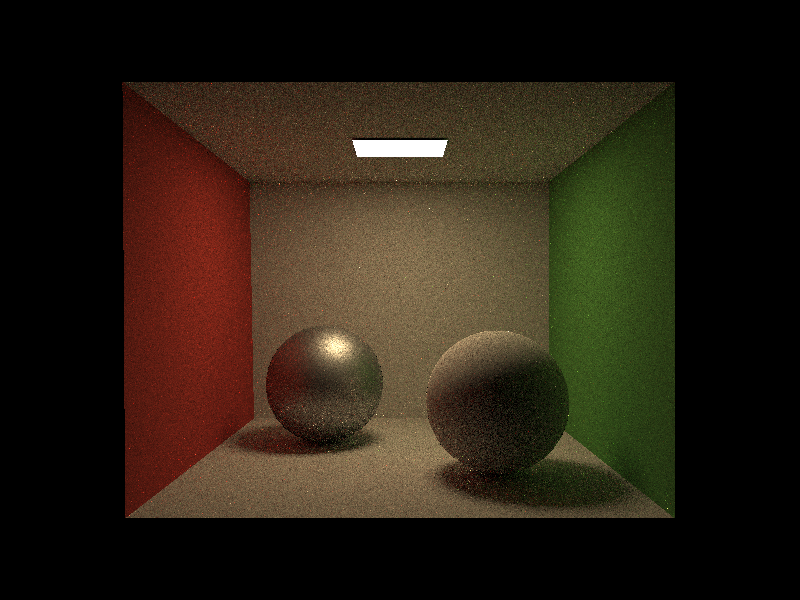
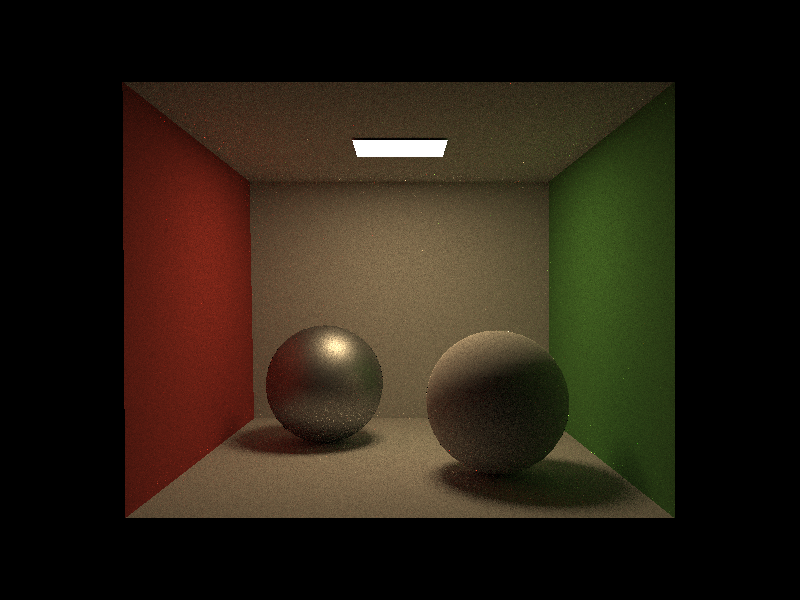
Optimizations.

diff --git a/src/pathtracer.cpp b/src/pathtracer.cpp
@@ -144,19 +144,19 @@ e8::unidirect_pathtracer::sample_indirect_illum(e8util::rng& rng,
                                                 unsigned multi_light_samps,
                                                 unsigned multi_indirect_samps) const
 {
-        // direct.
-        e8util::vec3 const& direct = sample_direct_illum(rng, o, info, scene, multi_light_samps);
-
         static const int mutate_depth = 3;
         float p_survive = 0.5f;
         if (depth >= mutate_depth) {
                 if (rng.draw() >= p_survive)
-                        return 0.0;
+                        return 0.0f;
         } else
                 p_survive = 1;
 
         if (depth >= 1)
                 multi_indirect_samps = 1;
+
+        // direct.
+        e8util::vec3 const& direct = sample_direct_illum(rng, o, info, scene, multi_light_samps);
 
         // indirect.
         float mat_pdf;
@@ -204,42 +204,6 @@ e8::bidirect_pathtracer::bidirect_pathtracer()
 
 e8::bidirect_pathtracer::~bidirect_pathtracer()
 {
-}
-
-e8util::vec3
-e8::bidirect_pathtracer::sample_light_illum(e8util::rng& rng,
-                                            e8util::vec3 const& rad,
-                                            e8util::vec3 const& i,
-                                            e8::intersect_info const& poi,
-                                            if_scene const* scene,
-                                            unsigned depth,
-                                            e8::intersect_info& terminate,
-                                            e8util::vec3& t) const
-{
-        static const unsigned mutate_depth = 0;
-        float p_survive = 0.5f;
-        if (depth >= mutate_depth) {
-                if (rng.draw() >= p_survive) {
-                        // stop.
-                        terminate = poi;
-                        t = i;
-                        return rad/(1 - p_survive);
-                }
-        } else
-                p_survive = 1;
-
-        float mat_pdf;
-        e8util::vec3 const& o = poi.mat->sample(rng, poi.normal, i, mat_pdf);
-        e8util::ray l(poi.vertex, o);
-        e8::intersect_info const& linfo = scene->intersect(l);
-        if (linfo.valid) {
-                e8util::vec3 const& brdf = poi.mat->eval(poi.normal, o, i);
-                float cos_w = poi.normal.inner(i);
-                e8util::vec3 const& r = rad*brdf*cos_w/mat_pdf/p_survive;
-                return sample_light_illum(rng, r, -o, linfo, scene, depth + 1, terminate, t);
-        } else {
-                return 0.0f;
-        }
 }
 
 e8util::vec3
@@ -300,16 +264,15 @@ e8::bidirect_pathtracer::sample_indirect_illum(e8util::rng& rng,
                                                 if_scene const* scene,
                                                 unsigned depth) const
 {
-        static const unsigned mutate_depth = 0;
+        static const unsigned mutate_depth = 2;
         float p_survive = 0.5f;
         if (depth >= mutate_depth) {
-                if (rng.draw() >= p_survive) {
-                        // Mutate and trace from the other direction.
-                        return join_with_light_paths(rng, o, info, scene, depth)/(1 - p_survive);
-                        //return sample_direct_illum(rng, o, info, scene, 1)/(1 - p_survive);
-                }
+                if (rng.draw() >= p_survive)
+                        return 0.0f;
         } else
                 p_survive = 1;
+
+        e8util::vec3 const& bidirect = join_with_light_paths(rng, o, info, scene, depth);
 
         // indirect.
         float mat_pdf;
@@ -322,9 +285,9 @@ e8::bidirect_pathtracer::sample_indirect_illum(e8util::rng& rng,
                 if (cos_w < 0.0f)
                         return 0.0f;
                 e8util::vec3 r = indirect*brdf*cos_w/mat_pdf/p_survive;
-                return r;
+                return bidirect + r;
         } else
-                return 0.0f;
+                return bidirect;
 }
 
 std::vector<e8util::vec3>

diff --git a/src/pathtracer.h b/src/pathtracer.h
@@ -94,14 +94,6 @@ public:
                                                if_scene const* scene,
                                                unsigned n) const override;
 protected:
-        e8util::vec3                    sample_light_illum(e8util::rng& rng,
-                                                           e8util::vec3 const& rad,
-                                                           e8util::vec3 const& w,
-                                                           e8::intersect_info const& info,
-                                                           if_scene const* scene,
-                                                           unsigned depth,
-                                                           e8::intersect_info& terminate,
-                                                           e8util::vec3& t) const;
         e8util::vec3                    join_with_light_paths(e8util::rng& rng,
                                                               e8util::vec3 const& o,
                                                               e8::intersect_info const& info,
